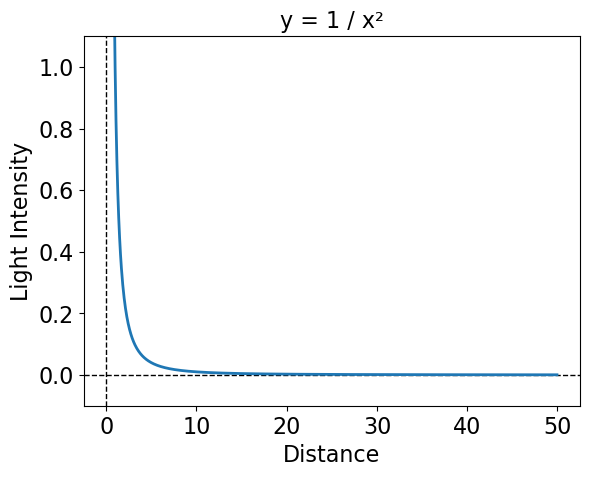
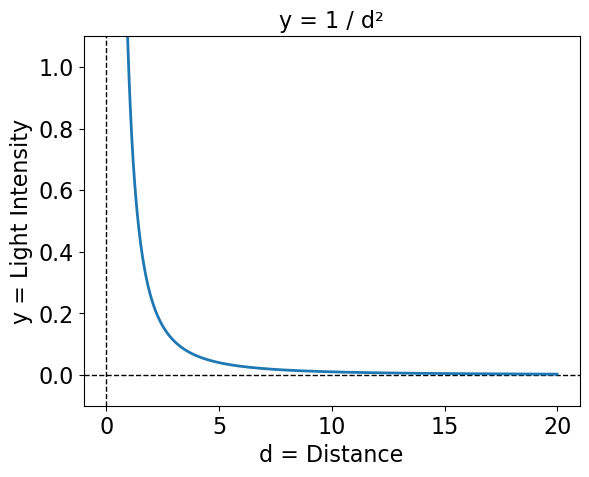
Work on lighting bug psot

diff --git a/content/blog/fixing-a-five-year-old-lighting-bug-in-my-game-engine/index.md b/content/blog/fixing-a-five-year-old-lighting-bug-in-my-game-engine/index.md
@@ -84,18 +84,54 @@ was crucial to the visuals I was trying to create, with
 lots of dark places and flickering fire light and it's important that the
 dynamic changes to the lighting were accurately reflected in the environment.
 
-So now that the bug is fixed I thought it might be interesting to dig through the
-history of how this code was written and to try to understand why I implemented such a simple piece
-of arithmetic incorrectly, and why the bug was so hard to spot from looking at
-the code. I'll also backport the fix to all the games I've made since 2019 that
-suffer from this bug and share some before and after pics.
+So now that the bug is fixed I thought it might be interesting to dig through
+the history of how this code was written and to try to understand why I
+implemented such a simple piece of arithmetic incorrectly, and how to fix it.
+I'll also backport the fix to all the games I've made since 2019 that suffer
+from this bug and share some before and after pics.
 
 ## The Inverse Square Rule
 
-![](plot1.png)
-![](plot2.png)
-![](plot3.png)
-![](plot5.png)
+The intensity of a light at a point is proportional to the inverse of the
+square of the distance from the light source to that point. The easiest way to
+implement diminishing lighting is to multiply the red, green and blue components
+of the light colour by `1 / distance²`.
+
+![A plot of y=1/d², where y is Light Intensity and d = Distance](plot1.png)
+
+The first issue with this is that the function is not defined at a distance of
+0. Since this lighting system is for games rendered as a grid of tiles, the
+shortest possible distance between a light's tile and any other tile is 1. Thus
+my original solution was to limit the distance to the light to 1 in lighting
+calculations.
+
+![A plot of y=1/max(d², 1), where y is Light Intensity and d = Distance](plot2.png)
+
+Now that this function is defined at all distances we can visualize it by
+plotting the function on a heatmap:
+
+![A heatmap of 1/max(d², 1) where d is the distance from the centre](map1.png)
+
+On the heatmap there's a solid circle with radius 1 corresponding to the flat
+part of the function below a distance of 1, and then the brightness quickly
+drops off approaching 0 as the distance increases.
+
+I wanted a way of slowing down the rate with which the light diminishes so that
+it spreads out over a larger area so I added a parameter `C` which can be used
+to tune the rate with which the light diminishes, effectively stretching out the
+curve horizontally.
+
+![A plot of y=1/max(d², 1), where y is Light Intensity and d = Distance](plot3.png)
+
+And this was the bug. I didn't account for the fact that stretching out the
+curve horizontally would also stretch it _vertically_. Assuming the colour of
+the light is white, this will effectively clip the curve at y=1, causing
+saturation:
+
 ![](plot4.png)
-![](plot6.png)
-![](plot7.png)
+
+Visualizing with a heatmap, this has the effect of creating a large bright spot
+in the saturated region which then quickly drops off outside that region which
+matches the original symptom of this bug.
+
+![](map2.png)

diff --git a/content/blog/setting-up-winget-for-the-first-time/index.md b/content/blog/setting-up-winget-for-the-first-time/index.md
@@ -1,7 +1,7 @@
 +++
 title = "Setting up WinGet for the First Time"
 date = 2024-11-04
-path = "fixing-a-five-year-old-lighting-bug-in-my-game-engine"
+path = "setting-up-winget-for-the-first-time"
 
 [taxonomies]
 tags = ["windows", "security"]
